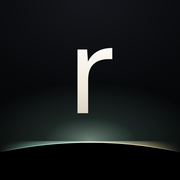
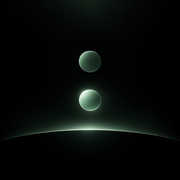
Add files via upload

Changed region(s): [[0.0, 0.6667, 1.0, 0.8611], [0.4167, 0.25, 0.6389, 0.6389]]

diff --git a/index.html b/index.html
@@ -15,7 +15,7 @@
 <link rel="apple-touch-icon" href="apple-touch-icon.png">
 <script src="https://telegram.org/js/telegram-web-app.js"></script>
 <link rel="preconnect" href="https://fonts.googleapis.com">
-<link href="https://fonts.googleapis.com/css2?family=Manrope:wght@300;400;500;600&family=DM+Sans:wght@400&family=Cormorant+Garamond:ital,wght@0,500;1,400&display=swap" rel="stylesheet">
+<link href="https://fonts.googleapis.com/css2?family=Manrope:wght@300;400;500;600&family=Cormorant+Garamond:ital,wght@0,500;1,400&display=swap" rel="stylesheet">
 <script>try{var m=localStorage.getItem('ratio.mode')||'auto',w=window.Telegram&&Telegram.WebApp;if(m==='light'||(m==='auto'&&(w&&w.colorScheme?w.colorScheme==='light':matchMedia('(prefers-color-scheme: light)').matches)))document.documentElement.classList.add('light')}catch(e){}</script>
 <style>
 /* VOICE: тихая швейцарская роскошь Konta & Cie, ничего лишнего
@@ -45,7 +45,7 @@ main{position:relative;z-index:1;max-width:560px;margin:0 auto;padding:calc(14px
 .splash.out{opacity:0;visibility:hidden}
 .splash .stage{position:relative;width:100%;max-width:430px;height:300px}
 .splash .stage>svg:first-child{position:absolute;inset:0;width:100%;height:100%}
-.splash .rr{position:absolute;left:0;right:0;top:40px;text-align:center;padding-left:8px;font:400 160px/1 "DM Sans",-apple-system,sans-serif;background:linear-gradient(180deg,#fffdf8,#efe8dc 55%,#cfc6b6);-webkit-background-clip:text;background-clip:text;-webkit-text-fill-color:transparent;opacity:0;transform:translateY(10px);animation:rise 1s var(--ease) .15s forwards}
+.splash .rr{position:absolute;left:50%;top:62px;width:42px;height:109px;margin-left:-21px;overflow:visible;opacity:0;transform:translateY(10px);animation:rise 1s var(--ease) .15s forwards}
 .splash .hl{stroke-dasharray:100;stroke-dashoffset:100;animation:draw 1.4s var(--ease) .1s forwards}
 .splash .glw{opacity:0;animation:fade 1.6s ease .3s forwards}
 .splash .nm{font-family:"Cormorant Garamond",Didot,Georgia,serif;font-size:28px;font-weight:500;color:#f3ede2;text-align:center;opacity:0;animation:fade 1s ease .6s forwards}
@@ -162,14 +162,14 @@ html.light .toast{background:rgba(255,255,255,.9);color:#2a261f;box-shadow:0 12p
   <div class="stage">
     <svg viewBox="0 0 390 300" preserveAspectRatio="none"><defs>
       <radialGradient id="spg" cx="195" cy="235" r="210" gradientUnits="userSpaceOnUse" gradientTransform="translate(0 235) scale(1 .55) translate(0 -235)"><stop offset="0" stop-color="#b8e0c8" stop-opacity=".45"/><stop offset=".4" stop-color="#7fb7a0" stop-opacity=".14"/><stop offset="1" stop-color="#7fb7a0" stop-opacity="0"/></radialGradient>
-      <linearGradient id="spl" x1="-10" x2="400" gradientUnits="userSpaceOnUse"><stop offset="0" stop-color="#9fd6c0" stop-opacity="0"/><stop offset=".2" stop-color="#8fc9b4" stop-opacity=".45"/><stop offset=".5" stop-color="#f2f7ee"/><stop offset=".8" stop-color="#d9c79a" stop-opacity=".45"/><stop offset="1" stop-color="#d9c79a" stop-opacity="0"/></linearGradient>
+      <linearGradient id="spl" x1="-10" x2="400" gradientUnits="userSpaceOnUse"><stop offset="0" stop-color="#9fd6c0" stop-opacity="0"/><stop offset=".2" stop-color="#8fc9b4" stop-opacity=".45"/><stop offset=".5" stop-color="#f2f7ee"/><stop offset=".8" stop-color="#8fc9b4" stop-opacity=".45"/><stop offset="1" stop-color="#9fd6c0" stop-opacity="0"/></linearGradient>
       <filter id="spb" x="-10%" y="-100%" width="120%" height="300%"><feGaussianBlur stdDeviation="5"/></filter>
       <clipPath id="spu"><path d="M-10 268 Q195 170 400 268 L400 0 L-10 0Z"/></clipPath></defs>
       <rect class="glw" width="390" height="300" fill="url(#spg)" clip-path="url(#spu)"/>
       <path class="hl" pathLength="100" d="M-10 268 Q195 170 400 268" fill="none" stroke="url(#spl)" stroke-width="6" filter="url(#spb)"/>
       <path class="hl" pathLength="100" d="M-10 268 Q195 170 400 268" fill="none" stroke="url(#spl)" stroke-width="1.6"/>
     </svg>
-    <div class="rr">r</div>
+    <svg class="rr" viewBox="216 138 80 208"><defs><linearGradient id="dm" x1="1" y1="0" x2="0" y2="1"><stop offset="0" stop-color="#a8c6af"/><stop offset=".45" stop-color="#77997f"/><stop offset="1" stop-color="#4c6a55"/></linearGradient><radialGradient id="dl" cx="42%" cy="36%" r="70%"><stop offset="0" stop-color="#f4fcf6"/><stop offset=".45" stop-color="#bfe4cd"/><stop offset="1" stop-color="#7fb596"/></radialGradient><filter id="dg" x="-300%" y="-300%" width="700%" height="700%"><feGaussianBlur stdDeviation="14"/></filter></defs><circle cx="256" cy="178" r="32" fill="url(#dm)"/><circle cx="256" cy="306" r="42" fill="#9fd6b4" opacity=".45" filter="url(#dg)"/><circle cx="256" cy="306" r="32" fill="url(#dl)"/></svg>
   </div>
   <div class="nm">Ratio <i>by Konta &amp; Cie</i></div><div class="hr"></div><div class="est">EST. 2026</div>
   <div class="ver">v 1.0</div>
@@ -449,7 +449,7 @@ async function scan(t){const m=market,cur=MK[m].cur;$$('#tickers .chip').forEach
 const pnl=x=>x.p!=null?x.p:(x.s==='long'?x.x-x.e:x.e-x.x)*x.q;
 const rmult=x=>x.st&&x.e?pnl(x)/(Math.abs(x.e-x.st)*x.q):null;
 const isToday=ts=>new Date(ts).toDateString()===new Date().toDateString();
-function today(c){const T=S.j.filter(x=>x.c===c&&isToday(x.ts)).sort((a,b)=>a.ts-b.ts);let streak=0;for(let i=T.length-1;i>=0&&pnl(T[i])<0;i--)streak++;
+function today(c){const T=S.j.filter(x=>x.c===c&&!x.sample&&isToday(x.ts)).sort((a,b)=>a.ts-b.ts);let streak=0;for(let i=T.length-1;i>=0&&pnl(T[i])<0;i--)streak++;
   return {n:T.length,sum:T.reduce((s,x)=>s+pnl(x),0),streak}}
 function brake(c){const r=S.rules[c],t=today(c),lossPct=t.sum<0?-t.sum/r.dep*100:0,why=[];
   if(lossPct>=r.day)why.push(`Убыток за день ${f(lossPct,1)}% при лимите ${f(r.day,1)}%`);
@@ -474,8 +474,8 @@ function renderHome(){segSet('#hCur','c',hcur);
   const real=S.j.filter(x=>!x.sample);
   $('#hStart').innerHTML=real.length?'':`<div class="card" style="margin-top:22px"><div style="font-size:15px;font-weight:500">С чего начать</div><ol class="steps" style="margin-top:6px">
     <li>Задайте депозит и лимиты в <button class="link" data-go="rules">правилах</button></li><li>Подключите <button class="link" data-go="ex">биржу</button> или <button class="link" data-go="import">загрузите отчет</button></li><li>Перед каждым входом проверяйте сделку во вкладке «Позиция»</li></ol></div>`;
-  const L=S.j.filter(x=>x.c===hcur);$('#hTip').textContent=coach(L,hcur)[0]||'Записывайте сделки, и коуч покажет, где вы теряете деньги.';
-  $('#hList').innerHTML=[...S.j].sort((a,b)=>b.ts-a.ts).slice(0,3).map(tradeRow).join('')||'<p class="note">Сделок пока нет.</p>';bindRows('#hList')}
+  const L=S.j.filter(x=>x.c===hcur&&!x.sample);$('#hTip').textContent=coach(L,hcur)[0]||'Записывайте сделки, и коуч покажет, где вы теряете деньги: отыгрыш, вечерние входы, сделки без стопа.';
+  $('#hList').innerHTML=[...S.j].filter(x=>!x.sample).sort((a,b)=>b.ts-a.ts).slice(0,3).map(tradeRow).join('')||'<p class="note">Здесь появятся ваши сделки. Примеры, чтобы посмотреть, как все работает, лежат в журнале.</p>';bindRows('#hList')}
 $('#hAdd').onclick=()=>tradeSheet(null);
 
 /* ---------- позиция ---------- */
